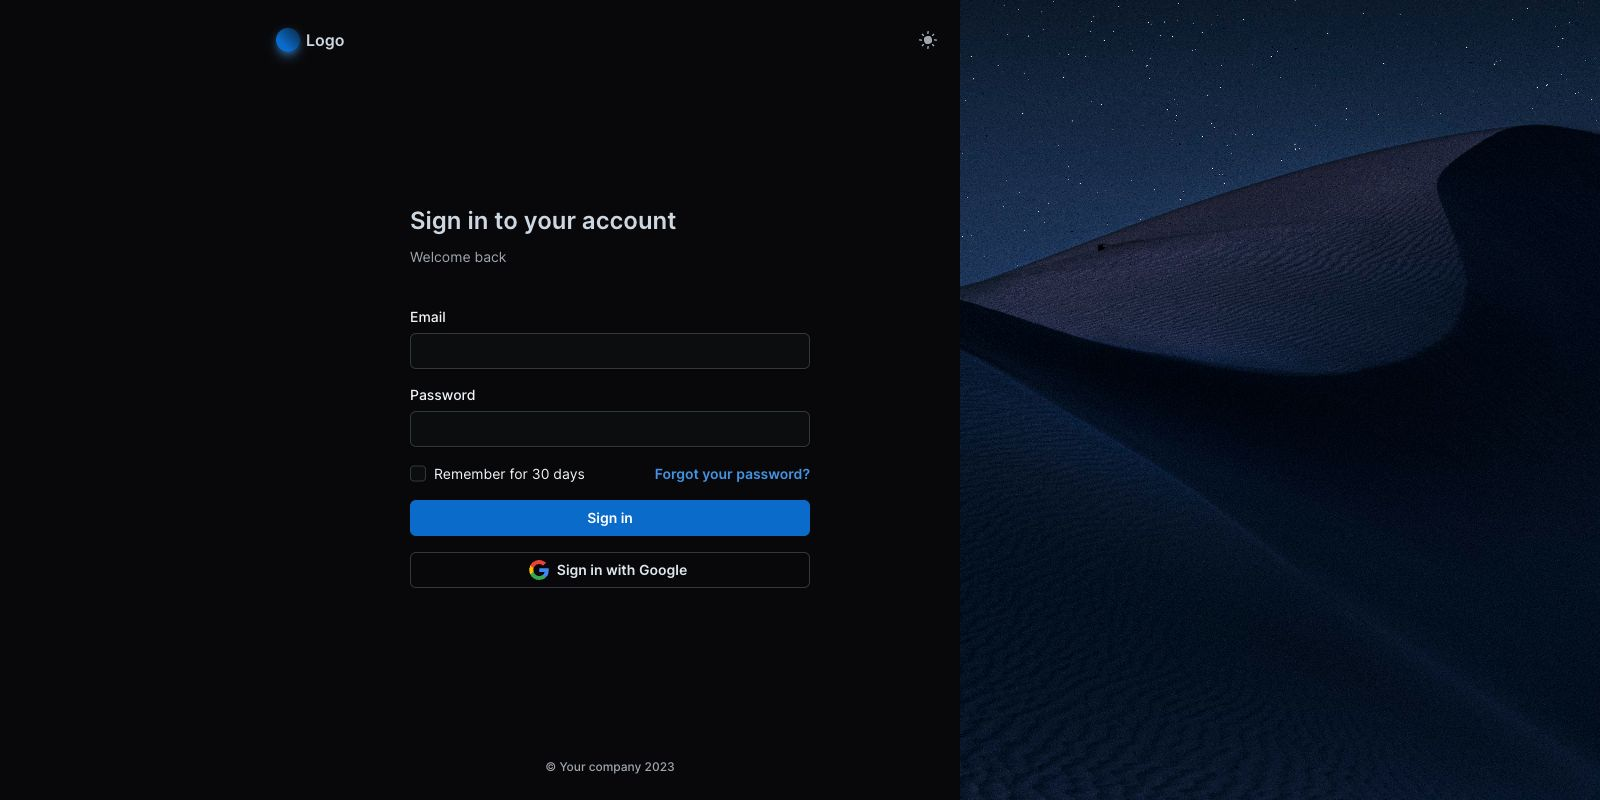
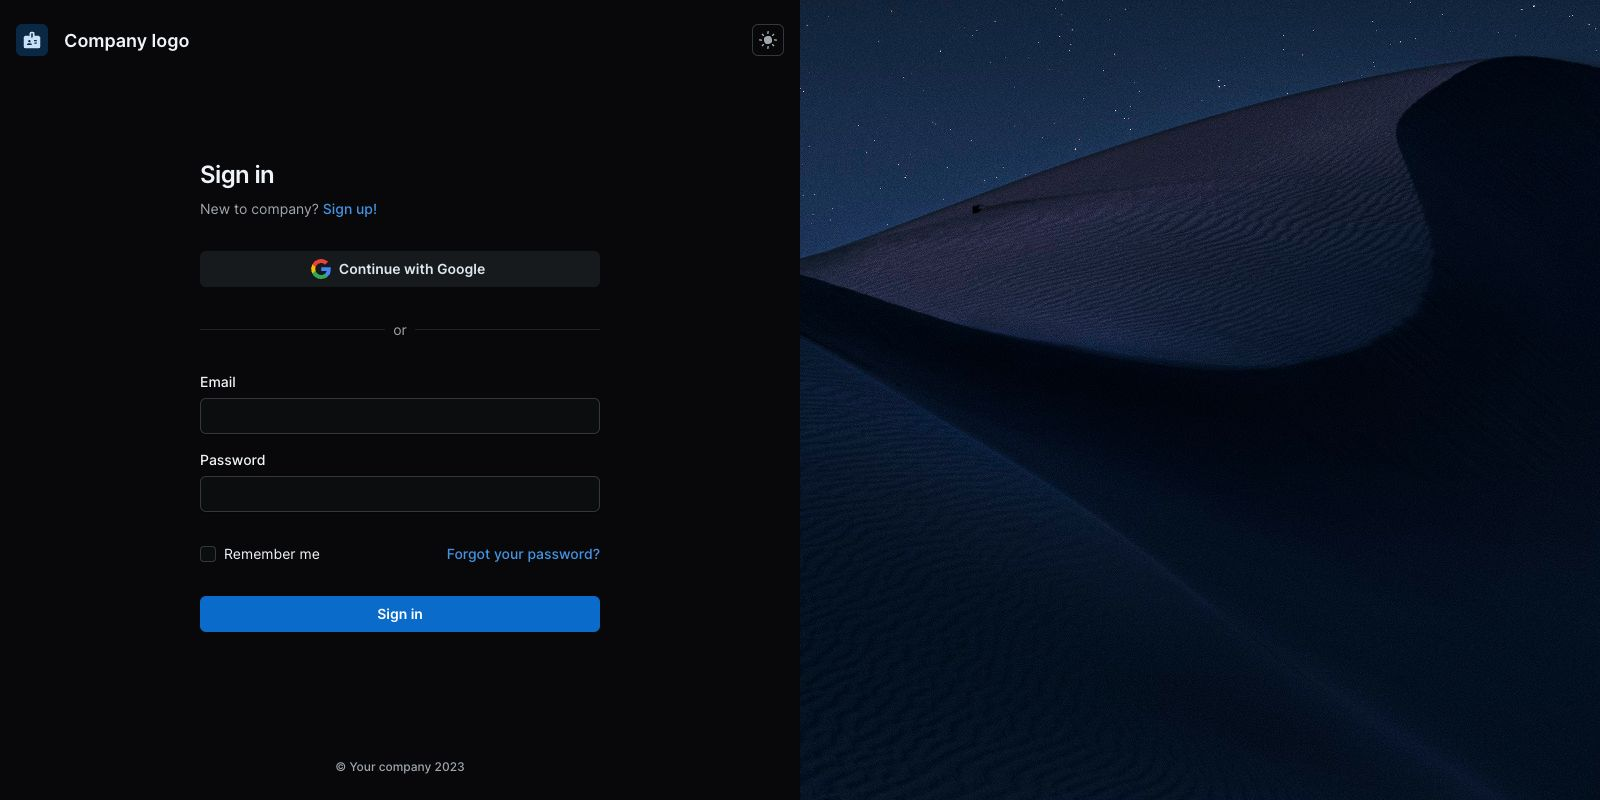
[docs][joy-ui] Refine the Sign in template  (#38942)

diff --git a/docs/data/joy/getting-started/templates/sign-in-side/App.tsx b/docs/data/joy/getting-started/templates/sign-in-side/App.tsx
@@ -5,14 +5,17 @@ import CssBaseline from '@mui/joy/CssBaseline';
 import Box from '@mui/joy/Box';
 import Button from '@mui/joy/Button';
 import Checkbox from '@mui/joy/Checkbox';
+import Divider from '@mui/joy/Divider';
 import FormControl from '@mui/joy/FormControl';
 import FormLabel, { formLabelClasses } from '@mui/joy/FormLabel';
 import IconButton, { IconButtonProps } from '@mui/joy/IconButton';
 import Link from '@mui/joy/Link';
 import Input from '@mui/joy/Input';
 import Typography from '@mui/joy/Typography';
+import Stack from '@mui/joy/Stack';
 import DarkModeRoundedIcon from '@mui/icons-material/DarkModeRounded';
 import LightModeRoundedIcon from '@mui/icons-material/LightModeRounded';
+import BadgeRoundedIcon from '@mui/icons-material/BadgeRounded';
 import GoogleIcon from './GoogleIcon';
 
 interface FormElements extends HTMLFormControlsCollection {
@@ -31,13 +34,13 @@ function ColorSchemeToggle({ onClick, ...props }: IconButtonProps) {
     setMounted(true);
   }, []);
   if (!mounted) {
-    return <IconButton size="sm" variant="plain" color="neutral" disabled />;
+    return <IconButton size="sm" variant="outlined" color="neutral" disabled />;
   }
   return (
     <IconButton
       id="toggle-mode"
       size="sm"
-      variant="plain"
+      variant="outlined"
       color="neutral"
       aria-label="toggle light/dark mode"
       {...props}
@@ -55,9 +58,6 @@ function ColorSchemeToggle({ onClick, ...props }: IconButtonProps) {
   );
 }
 
-/**
- * This template uses [`Inter`](https://fonts.google.com/specimen/Inter?query=inter) font.
- */
 export default function JoySignInSideTemplate() {
   return (
     <CssVarsProvider defaultMode="dark" disableTransitionOnChange>
@@ -66,8 +66,8 @@ export default function JoySignInSideTemplate() {
         styles={{
           ':root': {
             '--Collapsed-breakpoint': '769px', // form will stretch when viewport is below `769px`
-            '--Cover-width': '40vw', // must be `vw` only
-            '--Form-maxWidth': '700px',
+            '--Cover-width': '50vw', // must be `vw` only
+            '--Form-maxWidth': '800px',
             '--Transition-duration': '0.4s', // set to `none` to disable transition
           },
         }}
@@ -82,8 +82,8 @@ export default function JoySignInSideTemplate() {
           zIndex: 1,
           display: 'flex',
           justifyContent: 'flex-end',
-          backdropFilter: 'blur(4px)',
-          backgroundColor: 'rgba(255 255 255 / 0.6)',
+          backdropFilter: 'blur(12px)',
+          backgroundColor: 'rgba(255 255 255 / 0.2)',
           [theme.getColorSchemeSelector('dark')]: {
             backgroundColor: 'rgba(19 19 24 / 0.4)',
           },
@@ -105,30 +105,22 @@ export default function JoySignInSideTemplate() {
             sx={{
               py: 3,
               display: 'flex',
-              alignItems: 'center',
+              alignItems: 'left',
               justifyContent: 'space-between',
             }}
           >
-            <Typography
-              fontWeight="lg"
-              startDecorator={
-                <Box
-                  component="span"
-                  sx={{
-                    width: 24,
-                    height: 24,
-                    background: (theme) =>
-                      `linear-gradient(45deg, ${theme.vars.palette.primary.solidBg}, ${theme.vars.palette.primary.solidBg} 30%, ${theme.vars.palette.primary.softBg})`,
-                    borderRadius: '50%',
-                    boxShadow: (theme) => theme.shadow.md,
-                    '--joy-shadowChannel': (theme) =>
-                      theme.vars.palette.primary.mainChannel,
-                  }}
-                />
-              }
+            <Box
+              sx={{
+                gap: 2,
+                display: 'flex',
+                alignItems: 'center',
+              }}
             >
-              Logo
-            </Typography>
+              <IconButton variant="soft" color="primary" size="sm">
+                <BadgeRoundedIcon />
+              </IconButton>
+              <Typography level="title-lg">Company logo</Typography>
+            </Box>
             <ColorSchemeToggle />
           </Box>
           <Box
@@ -154,58 +146,79 @@ export default function JoySignInSideTemplate() {
               },
             }}
           >
-            <div>
-              <Typography component="h1" fontSize="xl2" fontWeight="lg">
-                Sign in to your account
-              </Typography>
-              <Typography level="body-sm" sx={{ my: 1, mb: 3 }}>
-                Welcome back
-              </Typography>
-            </div>
-            <form
-              onSubmit={(event: React.FormEvent<SignInFormElement>) => {
-                event.preventDefault();
-                const formElements = event.currentTarget.elements;
-                const data = {
-                  email: formElements.email.value,
-                  password: formElements.password.value,
-                  persistent: formElements.persistent.checked,
-                };
-                alert(JSON.stringify(data, null, 2));
-              }}
+            <Stack gap={4} sx={{ mb: 2 }}>
+              <Stack gap={1}>
+                <Typography level="h3">Sign in</Typography>
+                <Typography level="body-sm">
+                  New to company?{' '}
+                  <Link href="#replace-with-a-link" level="title-sm">
+                    Sign up!
+                  </Link>
+                </Typography>
+              </Stack>
+
+              <Button
+                variant="soft"
+                color="neutral"
+                fullWidth
+                startDecorator={<GoogleIcon />}
+              >
+                Continue with Google
+              </Button>
+            </Stack>
+            <Divider
+              sx={(theme) => ({
+                [theme.getColorSchemeSelector('light')]: {
+                  color: { xs: '#FFF', md: 'text.tertiary' },
+                  '--Divider-lineColor': {
+                    xs: '#FFF',
+                    md: 'var(--joy-palette-divider)',
+                  },
+                },
+              })}
             >
-              <FormControl required>
-                <FormLabel>Email</FormLabel>
-                <Input type="email" name="email" />
-              </FormControl>
-              <FormControl required>
-                <FormLabel>Password</FormLabel>
-                <Input type="password" name="password" />
-              </FormControl>
-              <Box
-                sx={{
-                  display: 'flex',
-                  justifyContent: 'space-between',
-                  alignItems: 'center',
+              or
+            </Divider>
+            <Stack gap={4} sx={{ mt: 2 }}>
+              <form
+                onSubmit={(event: React.FormEvent<SignInFormElement>) => {
+                  event.preventDefault();
+                  const formElements = event.currentTarget.elements;
+                  const data = {
+                    email: formElements.email.value,
+                    password: formElements.password.value,
+                    persistent: formElements.persistent.checked,
+                  };
+                  alert(JSON.stringify(data, null, 2));
                 }}
               >
-                <Checkbox size="sm" label="Remember for 30 days" name="persistent" />
-                <Link fontSize="sm" href="#replace-with-a-link" fontWeight="lg">
-                  Forgot your password?
-                </Link>
-              </Box>
-              <Button type="submit" fullWidth>
-                Sign in
-              </Button>
-            </form>
-            <Button
-              variant="outlined"
-              color="neutral"
-              fullWidth
-              startDecorator={<GoogleIcon />}
-            >
-              Sign in with Google
-            </Button>
+                <FormControl required>
+                  <FormLabel>Email</FormLabel>
+                  <Input type="email" name="email" />
+                </FormControl>
+                <FormControl required>
+                  <FormLabel>Password</FormLabel>
+                  <Input type="password" name="password" />
+                </FormControl>
+                <Stack gap={4} sx={{ mt: 2 }}>
+                  <Box
+                    sx={{
+                      display: 'flex',
+                      justifyContent: 'space-between',
+                      alignItems: 'center',
+                    }}
+                  >
+                    <Checkbox size="sm" label="Remember me" name="persistent" />
+                    <Link level="title-sm" href="#replace-with-a-link">
+                      Forgot your password?
+                    </Link>
+                  </Box>
+                  <Button type="submit" fullWidth>
+                    Sign in
+                  </Button>
+                </Stack>
+              </form>
+            </Stack>
           </Box>
           <Box component="footer" sx={{ py: 3 }}>
             <Typography level="body-xs" textAlign="center">
